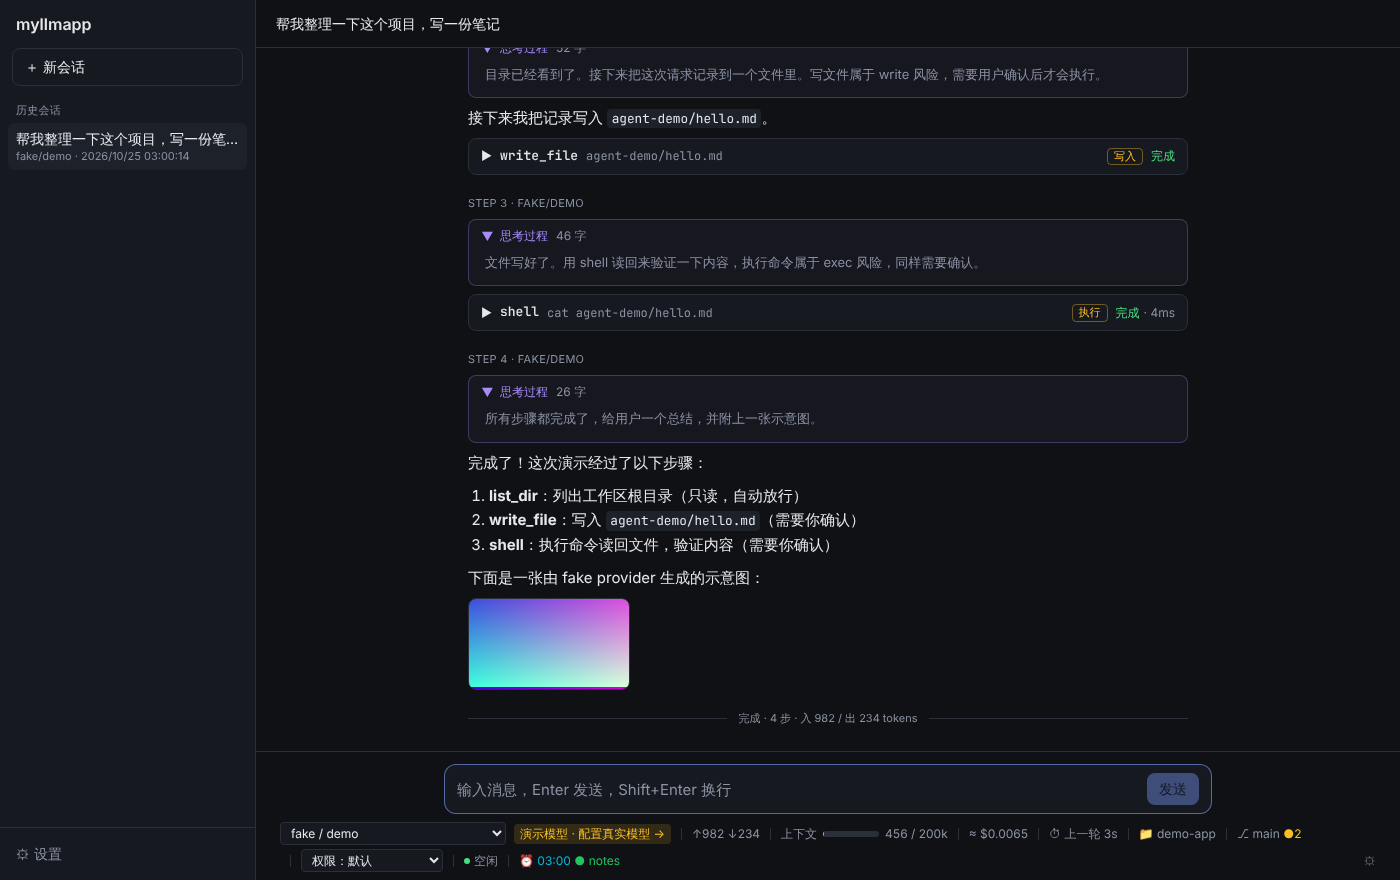
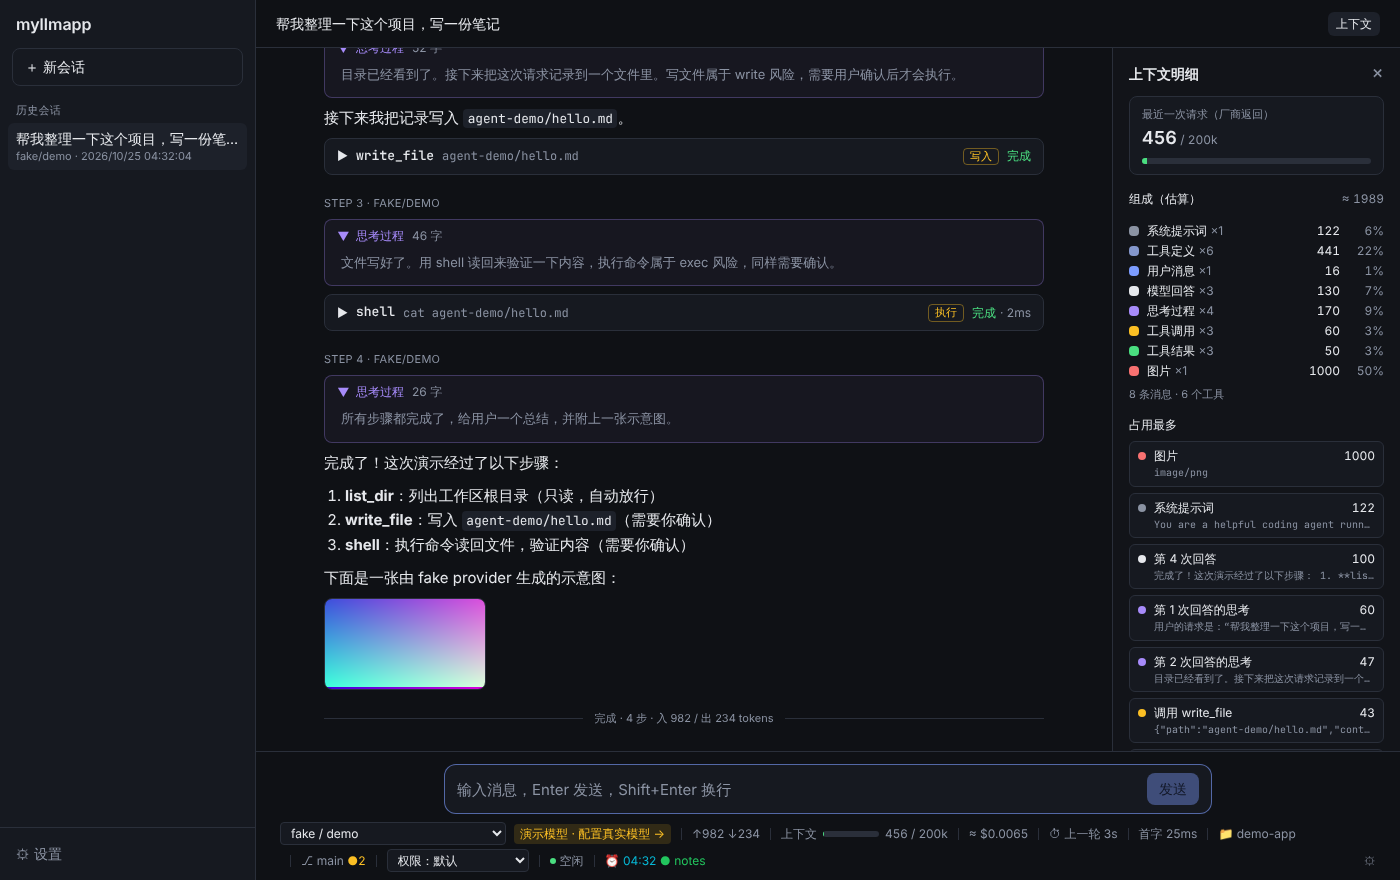
docs: 首字延迟、ChatGPT 额度、上下文明细；更新截图
Claude-Session: https://claude.ai/code/session_0167NzFcf9M43dWpVWyqKEdM

diff --git a/docs/usage.md b/docs/usage.md
@@ -113,7 +113,9 @@ export DEEPSEEK_API_KEY=...
 | Token 用量 | 本会话累计 ↑输入 ↓输出，可选显示缓存命中；每次模型调用后实时更新 |
 | 上下文占用 | 最近一次请求的真实上下文大小；配置了模型的上下文窗口时显示进度条和比例（≥60% 变黄，≥85% 变红） |
 | 预估花费 | 按每个模型的单价逐条计算；带 `+` 表示有调用没有单价或是近似值 |
+| ChatGPT 额度 | 使用 ChatGPT 账号时显示本应用最近 5 小时 / 7 天用掉的 token，遇到额度用完时变成红色的"GPT 额度已用完"；点击在浏览器中打开 ChatGPT 的用量页面（见下文） |
 | 本轮耗时 / 步数 | 运行中实时计时、显示第几步；空闲时显示上一轮耗时 |
+| 首字延迟 | 最近一次模型调用从发出请求到收到第一个字（含思考）的时间；超过 3 秒变黄、10 秒变红，等待超过 1 秒时实时计时；悬停显示本会话平均值 |
 | 工作区 | 目录名或完整路径 |
 | Git 分支 | 分支名，`●N` 表示 N 个文件有未提交改动；每轮结束和每 15 秒刷新 |
 | 权限模式 | 下拉选择 只读 / 默认 / 自动接受编辑 / 全部放行，立即生效并被记住；选「全部放行」会先弹出危险确认，且不会被记住（重启后回到之前的档位） |
@@ -133,6 +135,20 @@ export DEEPSEEK_API_KEY=...
 ```
 
 命令在工作区目录下运行，超时 2 秒，会话/模型/用量变化时（最多每秒一次）和每 15 秒刷新一次。出错时状态栏显示红色的 `⚠ script`，鼠标悬停可以看到原因。
+
+**关于 ChatGPT 额度**：OpenAI 目前**没有**提供用 Sign in with ChatGPT 的令牌查询剩余额度的接口（官方答复"暂不支持"），所以状态栏显示的是本应用自己记的账——
+通过 ChatGPT 账号发出的每次请求（包括生成标题、测试连接）用了多少 token，按套餐限额的两个窗口（5 小时、7 天）汇总；
+ChatGPT 网页、Codex 等其他地方的用量不在其中。剩余百分比和重置时间请点击后在 ChatGPT 的用量页面查看。记录保存在 `{data_dir}/chatgpt/usage.jsonl`，保留 7 天。
+
+## 2.5.1 上下文明细
+
+窗口足够宽时（≥ 1280 像素），对话区右侧显示**上下文明细**，标题栏右上角的"上下文"按钮可以隐藏 / 显示：
+
+- **最近一次请求**：厂商返回的真实上下文大小（与状态栏一致），配置了上下文窗口时显示占比；
+- **组成（估算）**：下一次请求会带上的内容按类别统计——系统提示词、工具定义（含 MCP 工具，禁用的不算）、用户消息、模型回答、思考过程、工具调用、工具结果、图片；
+- **占用最多**：最大的几条内容（例如某次 `read_file` 返回的一大段文件），悬停显示开头的内容。
+
+组成是按字符数估算的（英文约 4 个字符一个 token，中文约 1 个字一个 token，图片按 1000 计），用来看出"大头在哪"，和真实值有差距是正常的。
 
 ## 2.6 权限规则
 

diff --git a/README.md b/README.md
@@ -8,12 +8,13 @@
 - 🔑 **用 ChatGPT 账号登录**：OpenAI 官方的 Sign in with ChatGPT，用 ChatGPT 套餐（Go / Plus / Pro）的额度调用 GPT 模型，不需要 API Key
 - 🛡 **权限可控**：四档权限模式 + 按命令 / 路径匹配的规则（如 `go test*` 放行、`rm *` 拒绝）+ 工具开关
 - 🧩 **MCP**：在界面上添加 stdio 或 HTTP 的 MCP 服务器，工具自动接入、照常走权限确认
-- 👀 **可视化**：思考过程、工具调用、权限确认、图片；可自定义的状态栏（上下文占用、预估花费、实时耗时、git 分支、自定义脚本……）
+- 👀 **可视化**：思考过程、工具调用、权限确认、图片；上下文明细面板（各部分占多少、哪几条最大）；
+  可自定义的状态栏（上下文占用、预估花费、首字延迟、ChatGPT 额度、git 分支、自定义脚本……）
 - 🎨 **皮肤**：7 套内置配色（深浅两用），可以新建、编辑自定义皮肤，导出成 JSON 分享
 - ⚙ **设置都在界面上**：工作区、系统提示词、外观（深浅色 / 字号 / 宽度 / 发送键）、中英文界面、API Key 存系统钥匙串……修改即时生效
 - 🖥 **内核与界面解耦**：同一个内核，既是 Wails 桌面应用，也是终端 CLI
 
-![对话：思考过程、工具调用卡片、自定义状态栏](docs/images/chat-done-dark.png)
+![对话：思考过程、工具调用卡片、右侧的上下文明细、底部的状态栏](docs/images/chat-done-dark.png)
 
 ## 界面一览
 
@@ -24,7 +25,7 @@
 | ![权限确认弹窗](docs/images/chat-permission.png) | ![浅色主题](docs/images/chat-done-light.png) |
 | **权限确认**：写文件、执行命令前停下来等你确认；本会话总是允许、拒绝后模型会换个办法继续 | **浅色主题**：思考过程默认在输出结束后折叠 |
 | ![ChatGPT 账号登录](docs/images/settings-chatgpt.png) | ![MCP 服务器](docs/images/settings-mcp.png) |
-| **用 ChatGPT 账号登录**：登录后自动出现 chatgpt 厂商，模型列表可编辑 | **MCP**：显示连接状态和服务器提供的工具，进程退出时自动移除工具 |
+| **用 ChatGPT 账号登录**：登录后自动出现 chatgpt 厂商，显示本应用用掉的套餐额度 | **MCP**：显示连接状态和服务器提供的工具，进程退出时自动移除工具 |
 | ![权限规则与工具开关](docs/images/settings-permissions.png) | ![状态栏](docs/images/settings-statusline.png) |
 | **权限规则与工具开关**：规则优先于权限档位，MCP 工具也在这里 | **状态栏**：选择显示的项和顺序，支持自定义脚本（ANSI 颜色） |
 | ![皮肤](docs/images/settings-skins.png) | ![外观设置（英文界面）](docs/images/settings-appearance-en.png) |

diff --git a/docs/design/frontend-state.md b/docs/design/frontend-state.md
@@ -123,4 +123,9 @@ stateDiagram-v2
 - **实时性**：reducer 在每个 `message_end` 把用量累加进 `sessionUsage`，`turn_end` 再用后端的权威值覆盖；耗时由 `turn_start` 的时间戳计算，组件运行中每秒刷新。
 - **脚本输出**：`ScriptItem` 在会话、模型、运行状态、用量变化时（节流到每秒最多一次）和每 15 秒调用 `RunStatusLine`，同一时间只跑一个；
   输出里的 ANSI 颜色由 [`store/ansi.ts`](../../frontend/src/store/ansi.ts) 解析成带样式的片段（支持 16 色、256 色、真彩色、粗体等）。命令本身由后端从设置文件读取。
+- **首字延迟**：reducer 在 `message_start` 时记下 `startedAt`、在这条消息的第一个内容事件（思考 / 文本 / 工具调用 / 图片）时记下 `firstTokenAt`，都取事件信封里的 `ts`（后端时间），
+  `metrics.ttft` 计算最近一次和平均值。重放的历史（`running` 为 false）不记录；
+- **ChatGPT 额度**：只在当前厂商是 chatgpt 类型时显示，数据来自 `GetChatGPTUsage`（本应用记的账，见 providers.md），每轮结束和每 30 秒刷新；
+- **上下文明细面板**（`components/ContextPanel.tsx`）：数据来自 `Engine.ContextBreakdown`（`core/contextinfo.go`，按字符估算），会话切换、每次模型调用结束、一轮结束时刷新（300ms 防抖）；
+  后端只返回类别、序号和工具名，显示文字由前端按语言格式化；
 - **每项可以为空**：组件返回 null 时外层 `.statusline-item:empty` 被隐藏，分隔线用 `:not(:empty) ~ :not(:empty)::before` 绘制，所以关掉的项和暂时没数据的项都不会留下多余的分隔线。

diff --git a/docs/design/providers.md b/docs/design/providers.md
@@ -122,6 +122,8 @@ SSE 事件 → Delta：
 - **思考**：请求 `reasoning.summary = auto`，思考摘要显示在思考卡片里。思考不回传：`store=false` 时回传思考需要请求加密内容，套餐这条路未必支持，没有它模型照样能继续；
 - **事件**：`response.output_text.delta` → 文本，`response.reasoning_summary_text.delta` → 思考，`response.output_item.done`（`function_call`，参数已完整）→ 工具调用，`response.completed` → 用量与停止原因；`response.failed` 和 `error` 事件转换成错误——额度用完可能在开始输出之后才到达；
 - **错误码**：`subscription_sharing_usage_limit_exceeded`（额度用完）、`subscription_sharing_user_not_eligible`、`subscription_sharing_unsupported_capability`、`subscription_sharing_route_not_supported` 都翻译成中文说明，原始信息附在后面；
+- **用量记账**：OpenAI 没有提供查询剩余额度的接口，适配器在每次 `response.completed` 后把用量交给令牌来源的可选接口 `ReportUsage`，遇到额度用完调用 `ReportLimit`；
+  `siwc.Manager` 记在 `chatgpt/usage.jsonl` 里，状态栏按 5 小时 / 7 天汇总。在适配器里记账（而不是统计事件），是因为标题生成、测试连接也消耗额度却不产生对话事件；
 - **模型列表**：`GET /v1/models` 在这条路上返回 `{"models": [...]}`，元素形状没有写死，字符串或带 `id` / `slug` 的对象都接受。
 
 为什么不复用 Codex CLI 的登录：那需要冒用 Codex 的 client_id 和请求头去调 `chatgpt.com` 的内部接口，违反条款，也随时可能失效。
